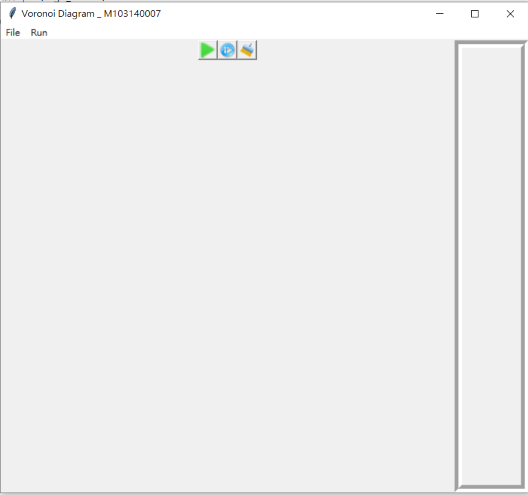
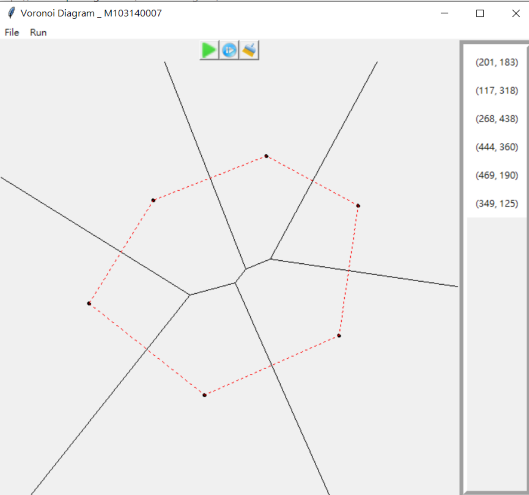
update

diff --git a/index.html b/index.html
@@ -107,9 +107,29 @@
                             <div class="panel panel-default">
                                 <div class = "panel-heading">功能規格與介面規格</div>
                                 <div class = "panel-body">
+                                    <h4><strong>介面</strong></h4>
+                                    <ol>
+                                        <li>最上方為功能目錄欄</li>
+                                        <li>畫布上方之icon由左至右分別為 Run,Step by Step,Clean之功能</li>
+                                        <li>中間為視窗畫布，大小為600*600，其中左上方為原點(0,0)</li>
+                                        <li>右側顯示欄則為點擊畫布時的點座標</li>
+                                    </ol>
                                     <img src="./Image/介面.PNG" class="img-rounded" alt="Cinque Terre">
                                 </div>
                             </div>
+                            <div class="panel panel-default">
+                                <div class = "panel-heading">軟體測試規劃書</div>
+                                <div class = "panel-body">
+                                    <p>
+                                        可以利用滑鼠直接點擊畫布，或者讀取輸入資料；並且使用直接執行即逐步執行之功能實現Voronoi Diagram於畫布上，來進行軟體測試。
+                                    </p>
+                                    <ul>
+                                        <li>1~3點: 直接顯示</li>
+                                        <li>4~6點: 一次Divide一次Merge</li>
+                                        <li>7點以上: 多次Divde和多次Merge</li>
+                                    </ul>
+                                </div>
+                            </div>    
 
                             
                         </div>
